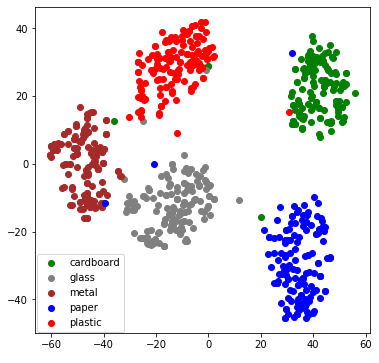
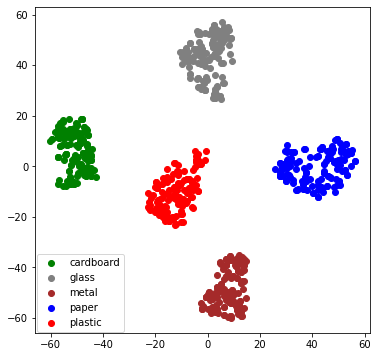
SoftmaxCosineSim and Readme

diff --git a/SoftmaxCosineSim.py b/SoftmaxCosineSim.py
@@ -1,5 +1,21 @@
 # ==============================================================================
-# Code based on NT-XENT-loss: https://github.com/google-research/simclr
+# Code modified from NT-XENT-loss:
+# https://github.com/google-research/simclr/blob/master/objective.py
+# ==============================================================================
+# coding=utf-8
+# Copyright 2020 The SimCLR Authors.
+#
+# Licensed under the Apache License, Version 2.0 (the "License");
+# you may not use this file except in compliance with the License.
+# You may obtain a copy of the License at
+#
+#     http://www.apache.org/licenses/LICENSE-2.0
+#
+# Unless required by applicable law or agreed to in writing, software
+# distributed under the License is distributed on an "AS IS" BASIS,
+# WITHOUT WARRANTIES OR CONDITIONS OF ANY KIND, either express or implied.
+# See the License for the specific simclr governing permissions and
+# limitations under the License.
 # ==============================================================================
 
 import tensorflow as tf
@@ -15,6 +31,7 @@ class SoftmaxCosineSim(keras.layers.Layer):
             I = Unity matrix of size (batch_size x batch_size)
             O = Zero matrix of size (batch_size x batch_size)
     """
+
     def __init__(self, batch_size, feat_dim, **kwargs):
         super(SoftmaxCosineSim, self).__init__()
         self.batch_size = batch_size
@@ -22,18 +39,20 @@ class SoftmaxCosineSim(keras.layers.Layer):
         self.units = (batch_size, 4 * feat_dim)
         self.input_dim = [(None, feat_dim)] * (batch_size * 2)
         self.temperature = 0.1
-        self.LARGE_NUM = 1e+9
+        self.LARGE_NUM = 1e9
 
     def get_config(self):
         config = super().get_config().copy()
-        config.update({
-            'batch_size' : self.batch_size,
-            'feat_dim' : self.feat_dim,
-            'units' : self.units,
-            'input_dim' : self.input_dim,
-            'temperature' : self.temperature,
-            'LARGE_NUM' : self.LARGE_NUM,
-        })
+        config.update(
+            {
+                "batch_size": self.batch_size,
+                "feat_dim": self.feat_dim,
+                "units": self.units,
+                "input_dim": self.input_dim,
+                "temperature": self.temperature,
+                "LARGE_NUM": self.LARGE_NUM,
+            }
+        )
         return config
 
     def call(self, inputs):
@@ -43,7 +62,9 @@ class SoftmaxCosineSim(keras.layers.Layer):
         for index in range(self.batch_size):
             # 0-index assumes that batch_size in generator is equal to 1
             z1.append(tf.math.l2_normalize(inputs[index][0], -1))
-            z2.append(tf.math.l2_normalize(inputs[self.batch_size + index][0], -1))
+            z2.append(
+                tf.math.l2_normalize(inputs[self.batch_size + index][0], -1)
+            )
 
         # Gather hidden1/hidden2 across replicas and create local labels.
         z1_large = z1

diff --git a/README.md b/README.md
@@ -2,10 +2,7 @@
 
 A Tensorflow-Keras Implementation of SimCLRv1 which allows to improve the feature representation quality of your base_model by the means of the Simple Framework for Contrastive Learning of Visual Representations. The provided code should require only minor changes in order to apply the framework to any Keras-model.
 
-References:
-  * [Paper](https://arxiv.org/abs/2002.05709)
-  * [GitHub](https://github.com/google-research/simclr)
-  * [Blog](https://amitness.com/2020/03/illustrated-simclr/)
+References: [Paper](https://arxiv.org/abs/2002.05709), [GitHub](https://github.com/google-research/simclr), [Blog](https://amitness.com/2020/03/illustrated-simclr/)
 
 
 <p align="center">
@@ -14,27 +11,26 @@ References:
 </p>
 
 
-# Implementation
-
-A [SimCLR-class](SimCLR.py) has been defined which builds a Keras SimCLR_model around the base_model. It is the aim to improve the feature encoding quality of this base_model. The SimCLR_model has (*2.batch_size*) Inputs and 1 matrix-output with shape (*batch_size* x *4.batch_size*).
-  * The *batch_size* images are each transformed twice by a random operation (see Fig.1), giving the 2.*batch_size* input images.
-  * The output is computed with the help of a custom Keras-layer: [SoftmaxCosineSim](SoftmaxCosineSim.py), in line with the NT-Xent-loss. The SimCLR-output matrix should match to [I|O|I|O], with I = identity-matrix and O = zero-matrix.
-  * Consequently, a simple Keras cross_entropy-loss can be evaluated between the SimCLR-output and [I|O|I|O]. As such, the SimCLRmodel can be trained and simultaneously the feature encoding improves.
-
-## How to use?
+# How to use?
 
 SimCLR = SimCLR(base_model, input_shape, batch_size, feat_dim, feat_dims_ph, num_of_unfrozen_layers, save_path)
 
-The method SimCLR.train can be used to train the SimCLR_model by passing the training and validation data of the type [DataGeneratorSimCLR](DataGeneratorSimCLR.py). The attribute base_model keeps track of the changing base_model. The feature representation quality can be evaluated in a number of ways, see below.
+The method SimCLR.train can be used to train the SimCLR_model by passing the training and validation data of the type [DataGeneratorSimCLR](DataGeneratorSimCLR.py). The attribute SimCLR.base_model keeps track of the changing base_model. The feature representation quality can be evaluated in a number of ways, see below.
 
 
 [![Open In Colab](https://colab.research.google.com/assets/colab-badge.svg)](https://drive.google.com/file/d/1Npf8sE0dlyV0-SAISnsrGsJBjRDZM-EQ/view?usp=sharing)
 
 
+# Implementation
 
-## Difference with official implementation
+A [SimCLR-class](SimCLR.py) has been defined which builds a Keras SimCLR_model around the base_model. It is the aim to improve the feature encoding quality of this base_model. The SimCLR_model has (*2.batch_size*) Inputs and 1 matrix-output with shape (*batch_size* x *4.batch_size*).
+  * The *batch_size* images are each transformed twice by a random operation (see Fig.1), giving the 2.*batch_size* input images.
+  * The output is computed with the help of a custom Keras-layer: [SoftmaxCosineSim](SoftmaxCosineSim.py) (see [notebook](0_illustration_SoftmaxCosineSim.ipynb) for intuitive toy example), in line with the NT-Xent-loss. The SimCLR-output matrix should match to [I|O|I|O], with I = identity-matrix and O = zero-matrix.
+  * Consequently, a simple Keras cross_entropy-loss can be evaluated between the SimCLR-output and [I|O|I|O]. As such, the SimCLRmodel can be trained and simultaneously the feature encoding improves.
 
-  * Adam optimizer instead of Lars, no warmup and cosine decay on the learning rate, learning is reduced on plateau.
+Difference with official [implementation](https://github.com/google-research/simclr):
+
+  * Adam optimizer instead of Lars, no warmup nor cosine decay on learning rate, learning is reduced on plateau.
   * Reduced color_jitter strength to 0.5 instead of 1.0
   * As only 1 device is used, no global batch normalization
   * swish activation instead of relu in projection head
@@ -43,13 +39,7 @@ The method SimCLR.train can be used to train the SimCLR_model by passing the tra
 
 SimCLR has been used as a self-supervised learning approach to improve the feature encoding quality of a pretrained VGG16-network. A SimCLR_model has been build around the base model and consequently trained on the SimCLR-task. For this, a gradual defreeze of the base model was adopted. A clear improvement of the feature representations could be observed for the downstream classification task.
 
-## Data
-
-2 datasets have been used:
- 1. Trashnet, public available
- 2. ContAIner, private dataset
-
-## TrashNet
+### Data: Trashnet
 
 The [trashnet-dataset](https://github.com/garythung/trashnet) has been used.
 The original dataset has been reduced to 5 classes with the following number of instances:
@@ -62,55 +52,35 @@ The original dataset has been reduced to 5 classes with the following number of 
 The original images of (512x384) have been center-cropped and reduced to a size (80x80)
 Data has been split in train/val/test - 70/15/15.
 
-### ContAIner
-
-This dataset contains (80x80)-image crops from construction waste dumpsters. The following number of instances are present:
-  * Metal: 10098
-  * Wood: 9504
-  * General: 8730
-  * Empty: 2855
-
-
-## Evaluation
+### Evaluation
 
 The feature quality is evaluated by the means of
   * A linear classifier (logistic regression) trained on the extracted features of the encoder
-  * A fine-tuned classifier. 5 attempts are performed, the best classifier is kept.Results change slightly to the stochastic nature of the optimization procedure
+  * A fine-tuned classifier. 5 attempts are performed, the best classifier is kept.
   * A t-SNE visualization is made.
 
 This is done for 3 fractions of the whole training data: 100%, 20%, 5%. It can be seen that the SimCLR improves the classification performance for all fractions of the training set.
 
 
-## Results
+### Results
 
-### Trashnet
+Since the results change slightly due to the stochastic nature of the optimization procedure of both the SimCLR_model and the fine-tuned classifier, the average and standard deviation over 10 runs is presented below.
 
 |   Fraction of training set   |  Classifier   | VGG16      |  SimCLR |
 |:----------:|:-------------:|:-------------:|:------:|
-| 100% | Linear | 0.79 | 0.82
-|      | Fine-tuned | 0.82 | 0.86
-| 20% | Linear | 0.70 | 0.78
-|      | Fine-tuned | 0.82 | 0.86
-| 5% | Linear | 0.63 | 0.7
-|      | Fine-tuned | 0.75 | 0.81
+| 100% | Linear | 0.79 ± 0.00 | 0.82 ± 0.01
+|      | Fine-tuned | 0.84 ± 0.02| 0.87 ± 0.0
+| 20% | Linear | 0.70 ± 0.0.| 0.81 ±0.02
+|      | Fine-tuned | 0.84 ± 0.01| 0.86 ± 0.00
+| 5% | Linear | 0.63 ± 0.00| 0.78 ± 0.05
+|      | Fine-tuned | 0.79 ± 0.03| 0.82 ± 0.02
 
-![](/img/t-SNE_VGG16.png)  |  ![](/img/t-SNE_VGG16.png)
+
+<img src=/img/t-SNE_VGG16.png alt="alt text" width="250"/>  |  <img src=/img/t-SNE_SimCLR.png alt="alt text" width="250"/>
 :-------------------------:|:-------------------------:
-Fig.2.1 - t-SNE of VGG16-features           | Fig.2.2 - t-SNE of VGG16-features after SimCLR
+Fig.2.1 - t-SNE of VGG16-features before SimCLR          | Fig.2.2 - t-SNE of VGG16-features after SimCLR
 
 
-
-
-### ContAIner
-
-|   Fraction of training data   |  Classifier   | VGG16      |  SimCLR |
-|:----------:|:-------------:|:-------------:|:------:|
-| 100% | Linear | |
-|      | Fine-tuned |  |
-| 20% | Linear |  |
-|      | Fine-tuned | |
-| 5% | Linear |  |
-|      | Fine-tuned | |
 
 # Project Context
 
